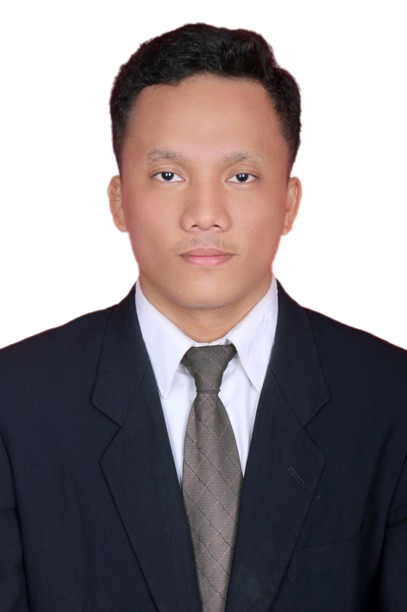
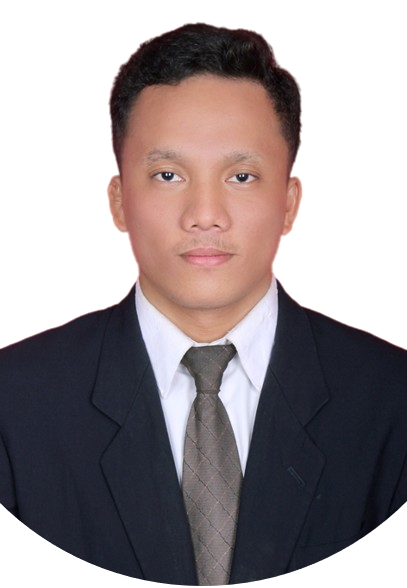
Implement effect and edit photo

diff --git a/components/Photo/Photo.tsx b/components/Photo/Photo.tsx
@@ -28,7 +28,7 @@ const Photo = () => {
         viewBox="0 0 506 506"
         xmlns="http: //www.w3.org/2000/svg"
       >
-        {/* <motion.circle
+        <motion.circle
           cx="253"
           cy="253"
           r="250"
@@ -46,7 +46,7 @@ const Photo = () => {
             repeat: Infinity,
             repeatType: 'reverse'
           }}
-        /> */}
+        />
       </motion.svg>
     </div>
   );

diff --git a/components/Header/Header.tsx b/components/Header/Header.tsx
@@ -22,7 +22,7 @@ const Header = () => {
         {/* Desktop Nav & Hire Me Button */}
         <div className="hidden xl:flex items-center gap-8">
           <Nav />
-          <Link href={'wa.me/mailto:Imanbriyan@gmail.com'}>
+          <Link href={'mailto:Imanbriyan@gmail.com'}>
             <Button>Hire Me</Button>
           </Link>
         </div>
